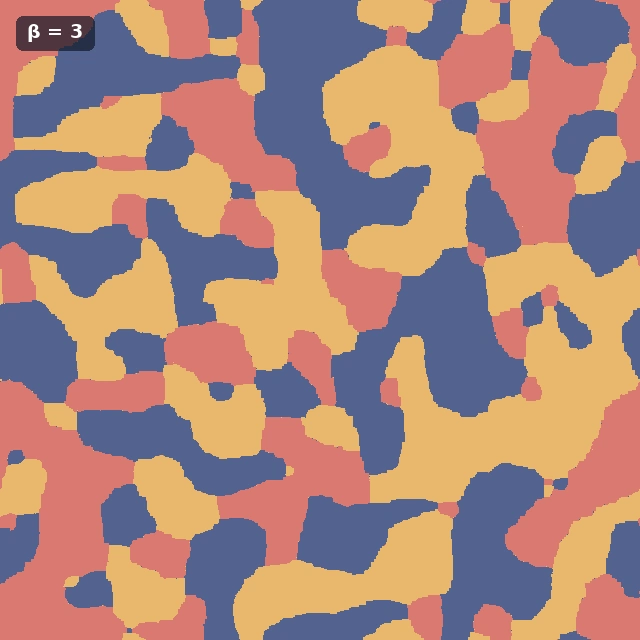
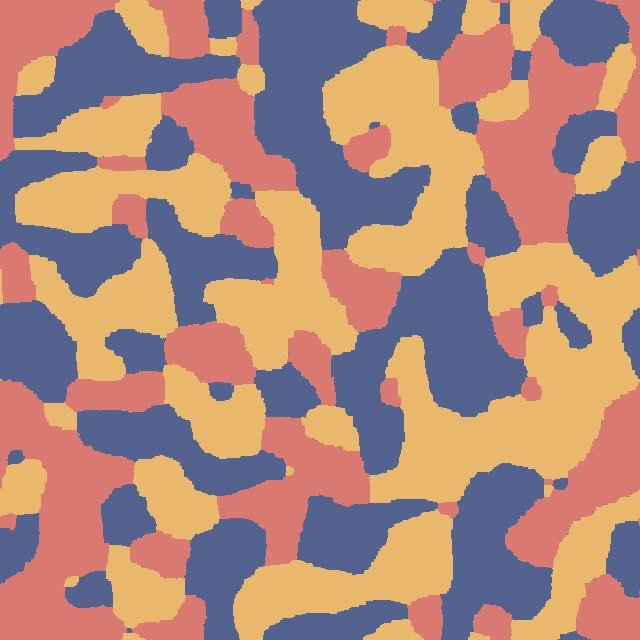
Refine simulation palettes and SFT labels

Changed region(s): [[0.0, 0.0, 0.1562, 0.0938]]

diff --git a/research.html b/research.html
@@ -65,7 +65,7 @@
             <span><strong>Subcritical</strong><i>ρ = 0.58</i></span>
             <span><strong>Critical window</strong><i>ρ ≈ ρ<sub>c</sub>(ℤ<sup>2</sup>) ≈ 0.72</i></span>
             <span><strong>Supercritical</strong><i>ρ = 0.78</i></span>
-            <small>Logarithmic toppling heat maps on three 426 × 720 periodic lattices.</small>
+            <small>Logarithmic toppling heat maps on three 426 × 720 periodic lattices. Dark sites hold particles; light sites are empty.</small>
           </figcaption>
         </figure>
         <p class="scroll-cue">Five broad areas, one scroll at a time</p>
@@ -140,9 +140,18 @@
           <figure class="project-figure">
             <div class="figure-frame sft-frame">
               <div class="sft-triptych" role="group" aria-label="Three square samples from a three-color lattice model">
-                <img src="math_images/sft_phase_beta_neg1.webp" alt="Square lattice sample at beta minus one, where monochromatic two-by-two squares are discouraged">
-                <img src="math_images/sft_phase_beta_1_25.webp" alt="Square lattice sample at beta one point two five, where monochromatic two-by-two squares are rewarded">
-                <img src="math_images/sft_phase_beta_3.webp" alt="Square lattice sample at beta three, where large monochromatic blocks emerge">
+                <div class="sft-sample">
+                  <img src="math_images/sft_phase_beta_neg1.webp" alt="Square lattice sample at beta minus one, where monochromatic two-by-two squares are discouraged">
+                  <span class="sft-sample-label">β = −1</span>
+                </div>
+                <div class="sft-sample">
+                  <img src="math_images/sft_phase_beta_1_25.webp" alt="Square lattice sample at beta one point two five, where monochromatic two-by-two squares are rewarded">
+                  <span class="sft-sample-label">β = 1.25</span>
+                </div>
+                <div class="sft-sample">
+                  <img src="math_images/sft_phase_beta_3.webp" alt="Square lattice sample at beta three, where large monochromatic blocks emerge">
+                  <span class="sft-sample-label">β = 3</span>
+                </div>
               </div>
             </div>
             <figcaption><b>Figure 02</b><span>Three 640 × 640 samples from a two-dimensional Gibbs field. From left to right, monochromatic 2 × 2 squares are discouraged (β = −1), rewarded (β = 1.25), and strongly rewarded (β = 3).</span></figcaption>

diff --git a/tools/generate_soc_stills.js b/tools/generate_soc_stills.js
@@ -89,15 +89,15 @@ function interpolate(first, second, amount) {
 function heatColor(value, ceiling, particleCount) {
   // Occupancy is encoded by lightness: particles are dark, empty sites are
   // light.  Hue still records the logarithmic toppling count.
-  if (!value) return particleCount ? [22, 42, 56] : [230, 240, 246];
+  if (!value) return particleCount ? [34, 57, 70] : [178, 205, 217];
   const t = Math.pow(Math.min(1, Math.log1p(value) / Math.log1p(ceiling)), 0.68);
   let color;
   if (t < 0.26) color = interpolate([189, 218, 230], [91, 157, 181], t / 0.26);
   else if (t < 0.52) color = interpolate([91, 157, 181], [104, 113, 166], (t - 0.26) / 0.26);
   else if (t < 0.76) color = interpolate([104, 113, 166], [224, 133, 108], (t - 0.52) / 0.24);
   else color = interpolate([224, 133, 108], [244, 194, 103], (t - 0.76) / 0.24);
-  if (!particleCount) return interpolate(color, [246, 250, 252], 0.18);
-  return interpolate(color, particleCount > 1 ? [6, 17, 25] : [18, 34, 46], 0.58);
+  if (!particleCount) return interpolate(color, [222, 235, 241], 0.12);
+  return interpolate(color, particleCount > 1 ? [9, 23, 31] : [28, 48, 60], 0.5);
 }
 
 async function main() {

diff --git a/style.css b/style.css
@@ -661,6 +661,10 @@ button {
   margin: auto;
 }
 
+#patterns .project-inner {
+  grid-template-columns: minmax(500px, 1.16fr) minmax(340px, 0.84fr);
+}
+
 .project.reverse .project-copy {
   order: 2;
 }
@@ -898,11 +902,29 @@ button {
   background: rgba(248, 251, 254, 0.58);
 }
 
-.sft-triptych img {
+.sft-sample {
+  position: relative;
+  min-width: 0;
+}
+
+.sft-sample img {
   width: 100%;
   aspect-ratio: 1;
   object-fit: cover;
   box-shadow: none;
+}
+
+.sft-sample-label {
+  position: absolute;
+  left: 8px;
+  top: 8px;
+  padding: 4px 7px;
+  border-radius: 4px;
+  background: rgba(18, 24, 40, 0.74);
+  color: rgba(255, 255, 255, 0.94);
+  font: italic 0.7rem/1 var(--serif);
+  white-space: nowrap;
+  backdrop-filter: blur(3px);
 }
 
 .slideshow-frame {
@@ -1513,6 +1535,7 @@ a.resource-card:hover small {
   .home-grid,
   .page-hero,
   .project-inner,
+  #patterns .project-inner,
   .story-grid,
   .other-directory-grid {
     grid-template-columns: 1fr;
@@ -1544,6 +1567,10 @@ a.resource-card:hover small {
 
   .figure-frame {
     min-height: 450px;
+  }
+
+  .sft-frame {
+    min-height: 0;
   }
 
   .scroll-cue {

diff --git a/home-visuals.js b/home-visuals.js
@@ -103,15 +103,15 @@
   }
 
   function cellColor(odometer, particles) {
-    if (!odometer) return particles ? [22, 42, 56] : [230, 240, 246];
+    if (!odometer) return particles ? [34, 57, 70] : [178, 205, 217];
     const heat = clamp(Math.log1p(odometer) / Math.log(82), 0, 1);
     let color;
     if (heat < 0.34) color = mix([189, 218, 230], [91, 157, 181], heat / 0.34);
     else if (heat < 0.64) color = mix([91, 157, 181], [104, 113, 166], (heat - 0.34) / 0.3);
     else if (heat < 0.84) color = mix([104, 113, 166], [224, 133, 108], (heat - 0.64) / 0.2);
     else color = mix([224, 133, 108], [244, 194, 103], (heat - 0.84) / 0.16);
-    if (!particles) return mix(color, [246, 250, 252], 0.18);
-    return mix(color, particles > 1 ? [6, 17, 25] : [18, 34, 46], 0.58);
+    if (!particles) return mix(color, [222, 235, 241], 0.12);
+    return mix(color, particles > 1 ? [9, 23, 31] : [28, 48, 60], 0.5);
   }
 
   document.querySelectorAll("[data-regime-visual]").forEach((visual, visualIndex) => {

diff --git a/index.html b/index.html
@@ -106,7 +106,7 @@
               <span><strong>Subcritical</strong><i>ρ = 0.58</i></span>
               <span><strong>Critical window</strong><i>ρ ≈ ρ<sub>c</sub>(ℤ<sup>2</sup>) ≈ 0.72</i></span>
               <span><strong>Supercritical</strong><i>ρ = 0.78</i></span>
-              <small>Toppling-count heat maps from the same point-source experiment on three periodic lattices.</small>
+              <small>Toppling-count heat maps from the same point-source experiment. Dark sites hold particles; light sites are empty.</small>
             </figcaption>
           </figure>
         </div>

diff --git a/tools/generate_visual_assets.py b/tools/generate_visual_assets.py
@@ -114,23 +114,6 @@ def generate_sft() -> None:
     for (beta, seed, schedule), filename in zip(specs, filenames, strict=True):
         grid = sample_sft_phase((rows, cols), beta, seed, schedule)
         panel = Image.fromarray(palette[grid], "RGB")
-        draw = ImageDraw.Draw(panel, "RGBA")
-        label = f"β = {beta:g}"
-        label_font = font(19, True)
-        text_box = draw.textbbox((0, 0), label, font=label_font)
-        text_width = text_box[2] - text_box[0]
-        text_height = text_box[3] - text_box[1]
-        pad_x, pad_y = 11, 8
-        left, top = 16, 16
-        right = left + text_width + 2 * pad_x
-        bottom = top + text_height + 2 * pad_y
-        draw.rounded_rectangle((left, top, right, bottom), radius=7, fill=(18, 24, 40, 178))
-        draw.text(
-            (left + pad_x, top + pad_y - text_box[1]),
-            label,
-            font=label_font,
-            fill=(255, 255, 255, 238),
-        )
         panel.save(OUT / filename, "WEBP", quality=96, method=6)
         panels.append(panel)
 
